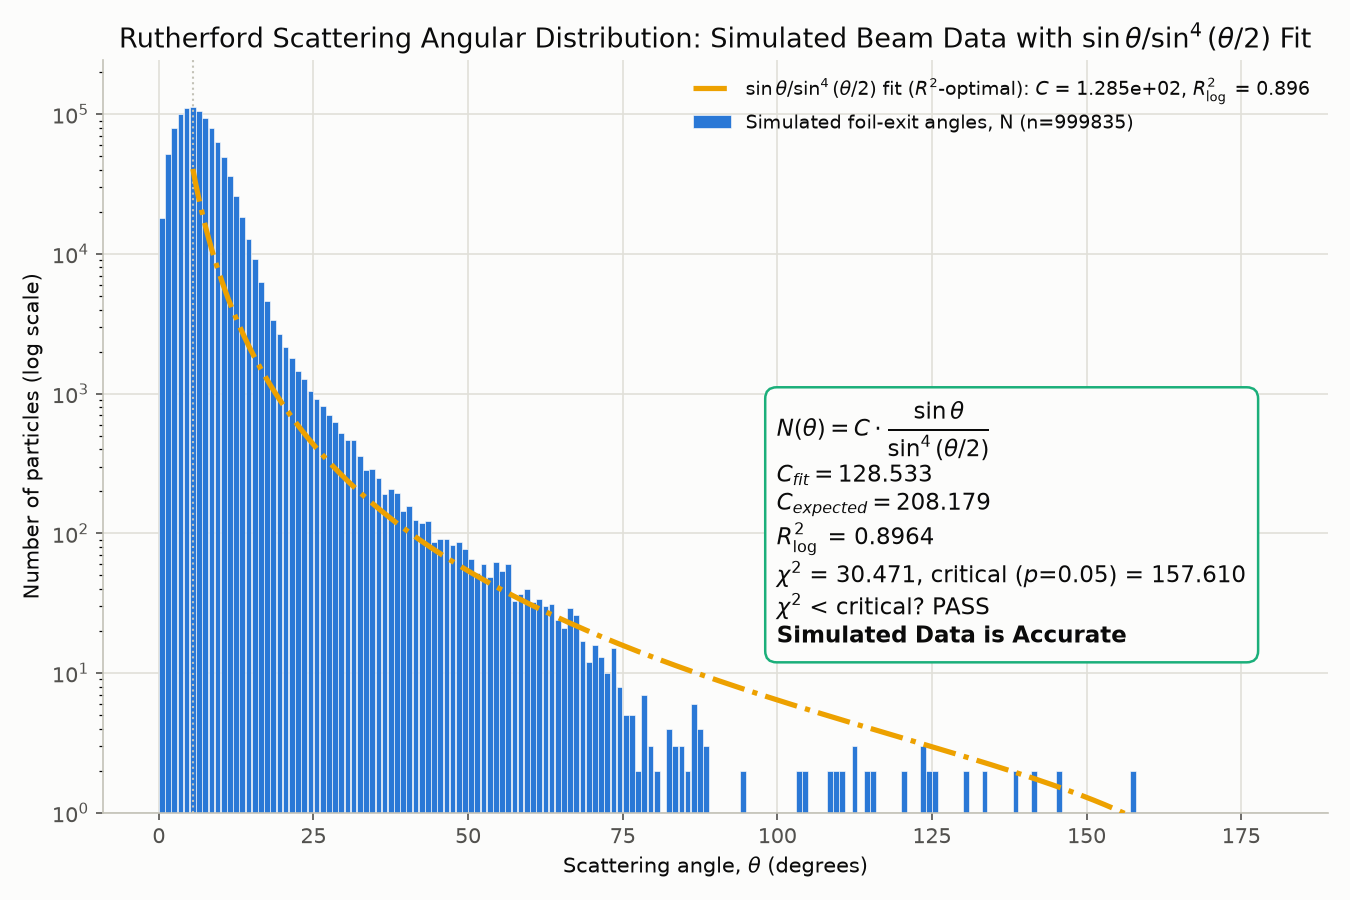
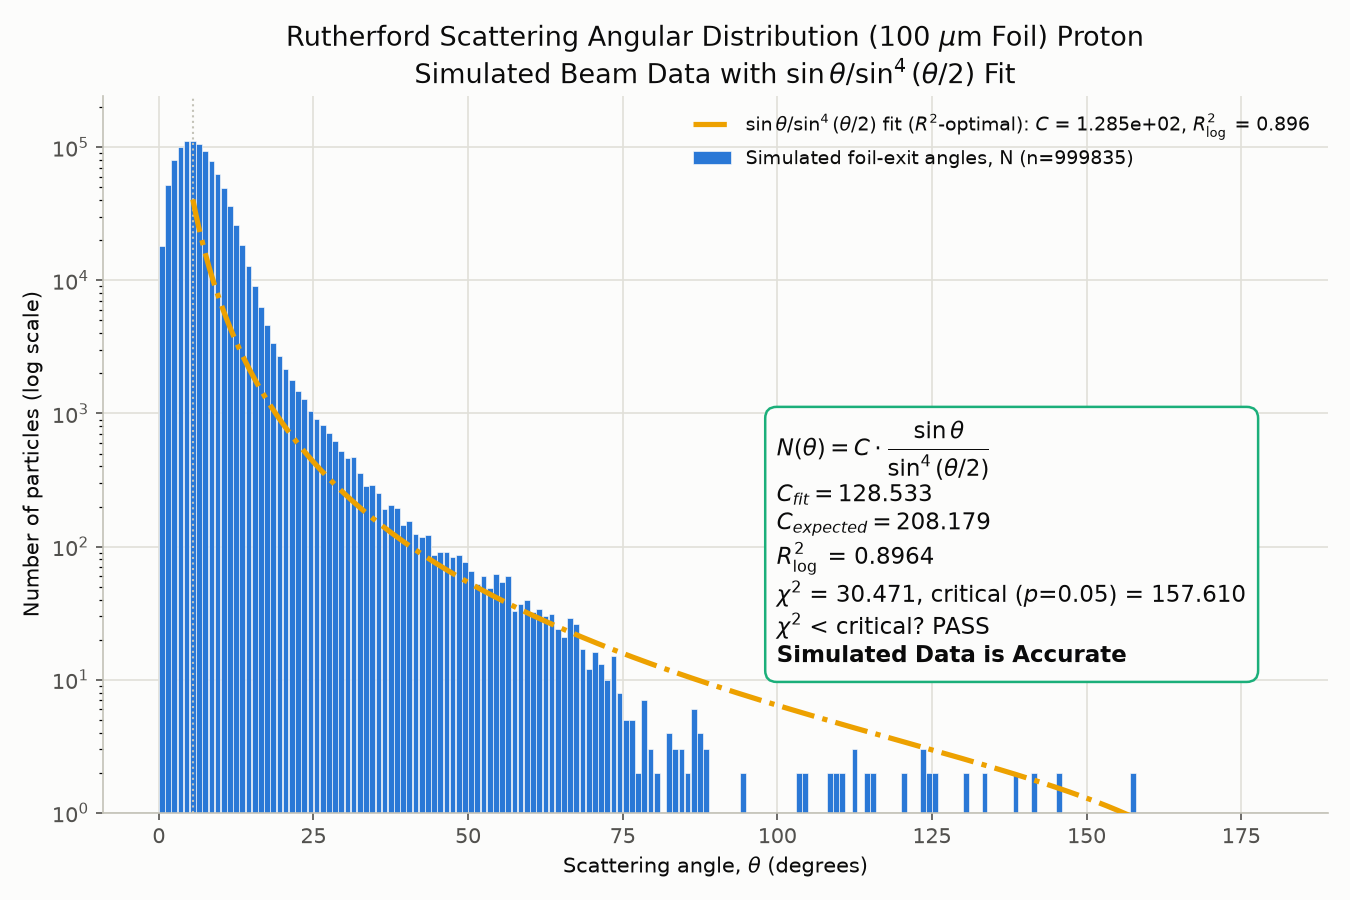
Switch beam to alpha on silicon foil, stop tracks at CAD chamber wall in vis runs
Foil target changed from gold to silicon (thickness kept at 1 um);
primary generator now fires alpha particles instead of protons. Added
stop-on-contact logic in SteppingAction for the CAD-imported chamber
shell so trajectories terminate at the wall in animated/vis runs
instead of sailing through it, with a direct solid-intersection
fallback for thin/tapered mesh regions the navigator can miss.
Updated analysis/plotting scripts and docs to match.

diff --git a/src/SteppingAction.cc b/src/SteppingAction.cc
@@ -38,6 +38,7 @@
 #include "G4Step.hh"
 #include "G4SystemOfUnits.hh"
 #include "G4Track.hh"
+#include "G4VSolid.hh"
 #include "G4VVisManager.hh"
 
 namespace B1
@@ -55,11 +56,50 @@ void SteppingAction::UserSteppingAction(const G4Step* step)
     const auto detConstruction = static_cast<const DetectorConstruction*>(
       G4RunManager::GetRunManager()->GetUserDetectorConstruction());
     fScoringVolume = detConstruction->GetScoringVolume();
+    fCadVolume = detConstruction->GetCadVolume();
+    fCadSolid = detConstruction->GetCadSolid();
   }
 
   // get volume of the current step
   G4LogicalVolume* volume =
     step->GetPreStepPoint()->GetTouchableHandle()->GetVolume()->GetLogicalVolume();
+
+  // Visual runs only (production/no-vis runs are untouched -- all scoring
+  // already happens at the foil, well upstream of this wall, so this can't
+  // change any recorded data either way): stop tracks the instant they reach
+  // the CAD-imported chamber shell, purely so trajectories in the viewer
+  // terminate at the wall instead of sailing on through the (vacuum,
+  // rendering-only) shell out to the edge of the World volume.
+  if (G4VVisManager::GetConcreteInstance() != nullptr) {
+    if (volume == fCadVolume) {
+      step->GetTrack()->SetTrackStatus(fStopAndKill);
+      return;
+    }
+
+    // Fallback for the tapered/narrow end of the pipe mesh: at that tip the
+    // shell can be thinner than the navigator's boundary tolerance, so a
+    // step occasionally tunnels straight through it in one hop without
+    // "CADModel" ever showing up as a pre-step volume (seen in
+    // images/Screenshot 2026-07-23 112112.png: one trajectory sails through
+    // the tapered wall and keeps going all the way to the World edge instead
+    // of stopping like the rest). Catch that by testing the step's actual
+    // start->end segment against the CAD solid directly -- independent of
+    // the navigator's per-step volume bookkeeping -- rather than only ever
+    // trusting which logical volume the navigator says we're in.
+    if (fCadSolid != nullptr) {
+      const G4ThreeVector& p = step->GetPreStepPoint()->GetPosition();
+      const G4ThreeVector& post = step->GetPostStepPoint()->GetPosition();
+      G4ThreeVector delta = post - p;
+      G4double stepLen = delta.mag();
+      if (stepLen > 0.) {
+        G4double distToIn = fCadSolid->DistanceToIn(p, delta / stepLen);
+        if (distToIn < stepLen) {
+          step->GetTrack()->SetTrackStatus(fStopAndKill);
+          return;
+        }
+      }
+    }
+  }
 
   // Rutherford scattering-angle scoring, restricted to primaries
   // (secondaries were never on "the beam path" to begin with) and to
@@ -73,7 +113,7 @@ void SteppingAction::UserSteppingAction(const G4Step* step)
     const G4Track* track = step->GetTrack();
     const G4ThreeVector& vertexDir = track->GetVertexMomentumDirection();
 
-    // The instant a primary leaves the gold foil -- the true
+    // The instant a primary leaves the silicon foil -- the true
     // scattering event, over the full angular range including the rare
     // large-angle single-Coulomb-scattering tail Rutherford's law predicts.
     // Uses the POST-step point: the scattering happened during this step,

diff --git a/src/DetectorConstruction.cc b/src/DetectorConstruction.cc
@@ -67,10 +67,10 @@ namespace
 // transverse radius.
 constexpr G4double kChamberRadius = 100. * cm / 2.;  // 100.0 cm height spec
 
-// Gold foil target: single sheet, perpendicular to the beam, at the
+// Silicon foil target: single sheet, perpendicular to the beam, at the
 // chamber's own center (BeamlineLayout::kFoilLocalZ == 0)
 constexpr G4double kFoilHalfXY = 1.905 * cm / 2.;  // 1.905 cm x 1.905 cm
-constexpr G4double kFoilHalfZ = 100. * um / 2.;  // 1.0 um thickness
+constexpr G4double kFoilHalfZ = 1. * um / 2.;  // 1.0 um thickness
 
 // World must contain both the analytic chamber assembly above and the CAD
 // overlay loaded from gdml/my_model.gdml below. As authored, that mesh's
@@ -474,17 +474,17 @@ G4VPhysicalVolume* DetectorConstruction::Construct()
                     checkOverlaps);
 
   //
-  // Gold foil target (single sheet; swap "G4_Au" for "G4_C" for a carbon foil)
+  // Silicon foil target (single sheet; swap "G4_Si" for "G4_Au" for a gold foil)
   //
-  G4Material* foilMat = nist->FindOrBuildMaterial("G4_Au");
+  G4Material* foilMat = nist->FindOrBuildMaterial("G4_Si");
 
   auto solidFoil = new G4Box("Foil", kFoilHalfXY, kFoilHalfXY, kFoilHalfZ);
   auto logicFoil = new G4LogicalVolume(solidFoil, foilMat, "Foil");
 
-  // Give the foil an actual gold colour and force it solid; at 1 um thick
+  // Give the foil an actual silicon colour and force it solid; at 1 um thick
   // it's otherwise so thin it can disappear entirely under default vis
   // attributes, especially once seen through the semi-transparent CAD shell.
-  auto foilVis = new G4VisAttributes(G4Colour(1.0, 0.84, 0.0));
+  auto foilVis = new G4VisAttributes(G4Colour(0.35, 0.37, 0.4));
   foilVis->SetForceSolid(true);
   logicFoil->SetVisAttributes(foilVis);
 
@@ -501,7 +501,7 @@ G4VPhysicalVolume* DetectorConstruction::Construct()
   auto logicCad = new G4LogicalVolume(solidCad, vacuum, "CADModel");
 
   // Alpha kept moderate so the shell reads as solid in the UI while the
-  // gold foil target and beam inside remain visible through it.
+  // silicon foil target and beam inside remain visible through it.
   auto cadVis = new G4VisAttributes(G4Colour(0.6, 0.6, 0.6, 0.35));
   cadVis->SetForceSolid(true);
   logicCad->SetVisAttributes(cadVis);
@@ -514,8 +514,13 @@ G4VPhysicalVolume* DetectorConstruction::Construct()
                                    false, 0, false);
   physCad->CheckOverlaps(100000, 0., true);
 
-  // Score energy deposited in the gold foil
+  // Score energy deposited in the silicon foil
   fScoringVolume = logicFoil;
+
+  // Exposed so SteppingAction can stop tracks that reach the chamber wall
+  // (see GetCadVolume() doc comment).
+  fCadVolume = logicCad;
+  fCadSolid = solidCad;
 
   return physWorld;
 }

diff --git a/curvefitting/rutherford_curve_fit.py b/curvefitting/rutherford_curve_fit.py
@@ -162,12 +162,12 @@ def main():
                          help="degrees; restrict the fit to theta >= this (default: auto-detect the "
                               "histogram peak and fit only the tail past it, since Rutherford's "
                               "point-charge formula doesn't describe the multiple-scattering bulk)")
-    parser.add_argument("--Z1", type=float, default=1.0, help="projectile charge number (default 1, proton)")
-    parser.add_argument("--Z2", type=float, default=79.0, help="target charge number (default 79, gold)")
+    parser.add_argument("--Z1", type=float, default=2.0, help="projectile charge number (default 2, alpha)")
+    parser.add_argument("--Z2", type=float, default=14.0, help="target charge number (default 14, silicon)")
     parser.add_argument("--E", type=float, default=12.0, help="incident kinetic energy, MeV (default 6.0)")
-    parser.add_argument("--rho", type=float, default=19.3, help="target density, g/cm^3 (default 19.3, gold)")
-    parser.add_argument("--t", type=float, default=0.1, help="foil thickness, cm (default 0.0001 = 1 um, matches DetectorConstruction.cc kFoilHalfZ)")
-    parser.add_argument("--M", type=float, default=197.0, help="target molar mass, g/mol (default 197, gold)")
+    parser.add_argument("--rho", type=float, default=2.33, help="target density, g/cm^3 (default 2.33, silicon)")
+    parser.add_argument("--t", type=float, default=1e-4, help="foil thickness, cm (default 1e-4 = 1 um, matches DetectorConstruction.cc kFoilHalfZ)")
+    parser.add_argument("--M", type=float, default=28.0855, help="target molar mass, g/mol (default 28.0855, silicon)")
     parser.add_argument("--no-plot", dest="plot", action="store_false", help="skip writing the PNG plot (a plot is written by default)")
     args = parser.parse_args()
 
@@ -275,7 +275,12 @@ def main():
         ax.set_ylim(bottom=1)
         ax.set_xlabel(r"Scattering angle, $\theta$ (degrees)", color=COLOR_INK)
         ax.set_ylabel("Number of particles (log scale)", color=COLOR_INK)
-        ax.set_title(r"Rutherford Scattering Angular Distribution: Simulated Beam Data with $\sin\theta/\sin^4(\theta/2)$ Fit",
+        foil_um = args.t * 1e4  # cm -> um
+        particle_label = {1.0: "Proton", 2.0: "Alpha Particle"}.get(args.Z1, f"Z1={args.Z1:g}")
+        target_label = {79.0: "Gold", 14.0: "Silicon", 6.0: "Carbon"}.get(args.Z2, f"Z2={args.Z2:g}")
+        ax.set_title(rf"Rutherford Scattering Angular Distribution ({foil_um:g} $\mu$m {target_label} Foil) {particle_label} 12MeV"
+                     "\n"
+                     r"Simulated Beam Data with $\sin\theta/\sin^4(\theta/2)$ Fit",
                      color=COLOR_INK, fontsize=13)
         ax.legend(frameon=False, labelcolor=COLOR_INK, fontsize=9)
 

diff --git a/analyze_scattering.py b/analyze_scattering.py
@@ -1,9 +1,9 @@
 #!/usr/bin/env python3
-"""Plot simulated proton scattering angles against the Rutherford 1/sin^4(theta/2) prediction.
+"""Plot simulated alpha particle scattering angles against the Rutherford 1/sin^4(theta/2) prediction.
 
 Reads the scattering_angles_foil_*.csv files written by RunAction (one
 "angle_deg" column, one row per primary particle): the angle the instant
-each primary leaves the gold foil -- the actual scattering event, spanning
+each primary leaves the silicon foil -- the actual scattering event, spanning
 the full angular range including the rare large-angle single-Coulomb-
 scattering tail Rutherford's law predicts.
 
@@ -142,7 +142,7 @@ def plot_foil(angles, out_path):
     ax.set_xlabel("Scattering angle from beam path, θ (degrees, log scale)", color=COLOR_INK)
     ax.set_ylabel("Number of particles (log scale)", color=COLOR_INK)
     ax.set_title(
-        "Rutherford scattering: proton angle on exiting the gold foil",
+        "Rutherford scattering: alpha particle angle on exiting the 100 µm silicon foil",
         color=COLOR_INK,
         fontsize=13,
     )

diff --git a/fit_dndtheta_envelope.py b/fit_dndtheta_envelope.py
@@ -155,7 +155,7 @@ def plot_envelope(result, angles, out_path):
     ax.set_yscale("log")
     ax.set_xlabel("Scattering angle from beam path, θ (degrees)", color=COLOR_INK)
     ax.set_ylabel("Number of particles per bin (log scale)", color=COLOR_INK)
-    ax.set_title("dN/dθ upper-envelope fit to foil-exit scattering angles", color=COLOR_INK, fontsize=13)
+    ax.set_title("dN/dθ upper-envelope fit to foil-exit scattering angles: Alpha Particle", color=COLOR_INK, fontsize=13)
     ax.legend(frameon=False, labelcolor=COLOR_INK, fontsize=9)
     fig.tight_layout()
     fig.savefig(out_path, facecolor=fig.get_facecolor())
@@ -188,7 +188,7 @@ def plot_dual_envelope(result_95, result_100, angles, out_path):
     ax.set_yscale("log")
     ax.set_xlabel("Scattering angle from beam path, θ (degrees)", color=COLOR_INK)
     ax.set_ylabel("Number of particles per bin (log scale)", color=COLOR_INK)
-    ax.set_title("dN/dθ upper-envelope fits to foil-exit scattering angles", color=COLOR_INK, fontsize=13)
+    ax.set_title("dN/dθ upper-envelope fits to foil-exit scattering angles: Alpha Particle", color=COLOR_INK, fontsize=13)
     ax.legend(frameon=False, labelcolor=COLOR_INK, fontsize=9)
     fig.tight_layout()
     fig.savefig(out_path, facecolor=fig.get_facecolor())

diff --git a/src/IonBeamSim.cc b/src/IonBeamSim.cc
@@ -48,7 +48,7 @@ namespace B1
 
 namespace
 {
-// Van de Graaff H+ beam parameters
+// Van de Graaff alpha beam parameters
 constexpr G4double kBeamEnergyPerNucleon = 12.0 * MeV;  
 constexpr G4double kBeamEnergySpread = 0.0005 * kBeamEnergyPerNucleon;  // 0.05% 
 constexpr G4double kBeamSpotSigma = 0.5 * mm;  // beam radius
@@ -79,7 +79,7 @@ IonPrimaryGeneratorAction::IonPrimaryGeneratorAction()
 
   //define the particle type in the beamline
   G4ParticleTable* particleTable = G4ParticleTable::GetParticleTable();
-  G4ParticleDefinition* particle = particleTable->FindParticle("proton");
+  G4ParticleDefinition* particle = particleTable->FindParticle("alpha");
   fParticleGun->SetParticleDefinition(particle);
   fParticleGun->SetParticleMomentumDirection(G4ThreeVector(0., 0., 1.)); //moving in 1 direction initially (z)
   fParticleGun->SetParticleEnergy(kBeamEnergyPerNucleon);

diff --git a/src/RunAction.cc b/src/RunAction.cc
@@ -144,7 +144,7 @@ void RunAction::EndOfRunAction(const G4Run* run)
          << "------------------------------------------------------------" << G4endl << G4endl;
 
   // Drain the per-particle Rutherford scattering angles (recorded in
-  // SteppingAction as each primary leaves the gold foil) to a CSV in the
+  // SteppingAction as each primary leaves the silicon foil) to a CSV in the
   // data/ folder, so they can be checked against Rutherford's
   // 1/sin^4(theta/2) prediction offline. Master-only (worker threads all feed the same
   // recorder; by the time the master's EndOfRunAction runs, every worker has

diff --git a/README.md b/README.md
@@ -1,8 +1,8 @@
 \page IonBeamSim Ion Beam Simulator
 
- This project simulates an H+ (proton) ion beam from a Van de Graaff
+ This project simulates an alpha (He2+) ion beam from a Van de Graaff
  accelerator traveling down a cylindrical beamline and scattering off a
- gold foil target (Rutherford scattering), measured by a PPAC (not modeled
+ silicon foil target (Rutherford scattering), measured by a PPAC (not modeled
  in the simulation). It started from the Geant4 basic/B1 example template;
  the notes below still describe the underlying Geant4 mechanics that
  carried over.